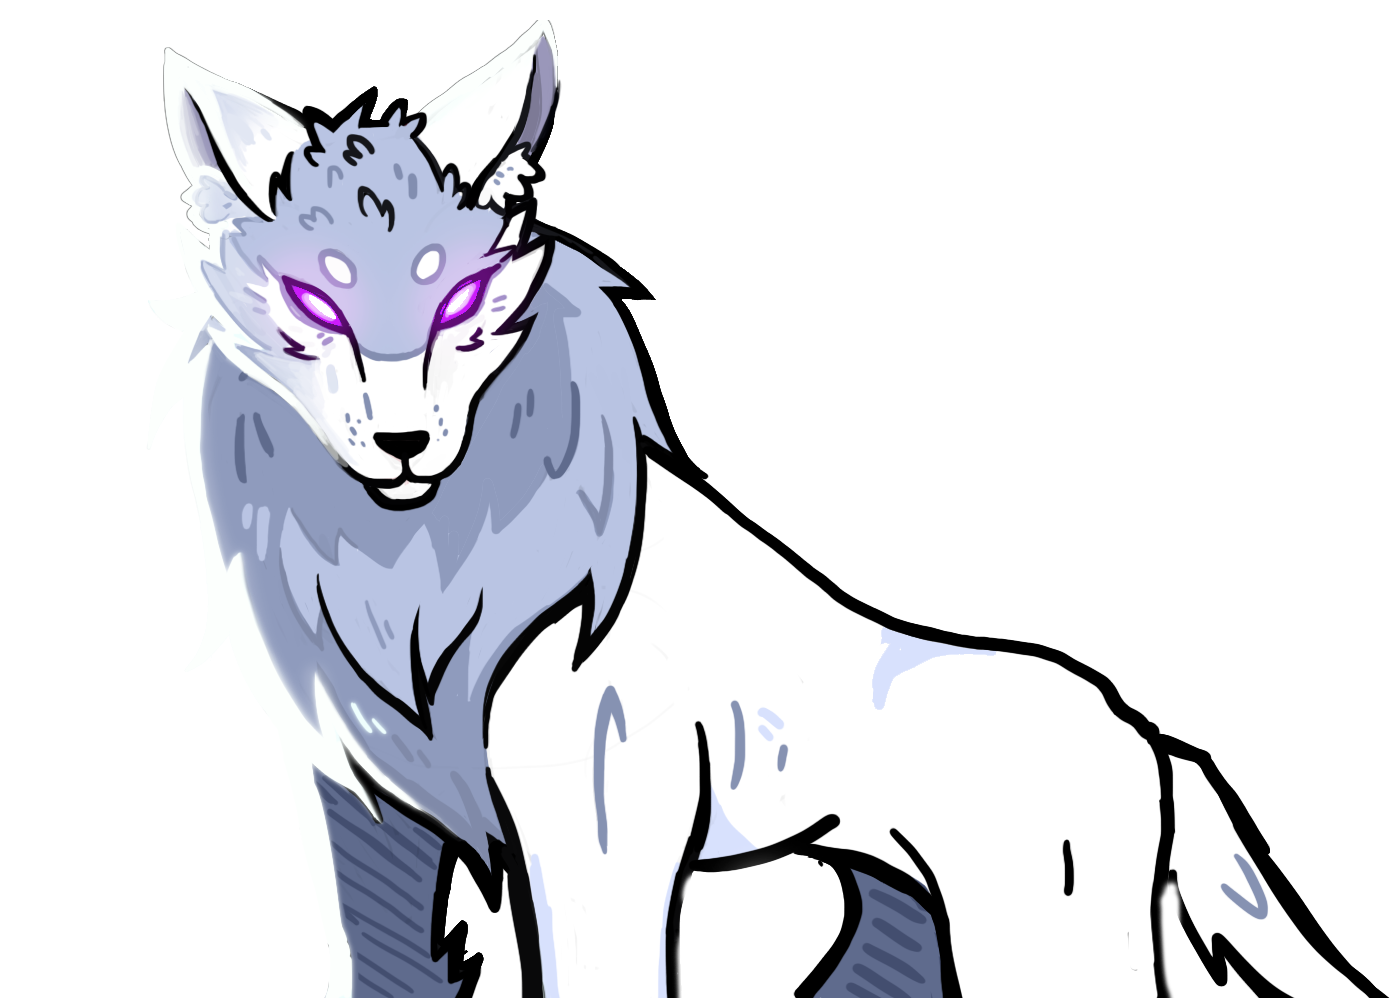
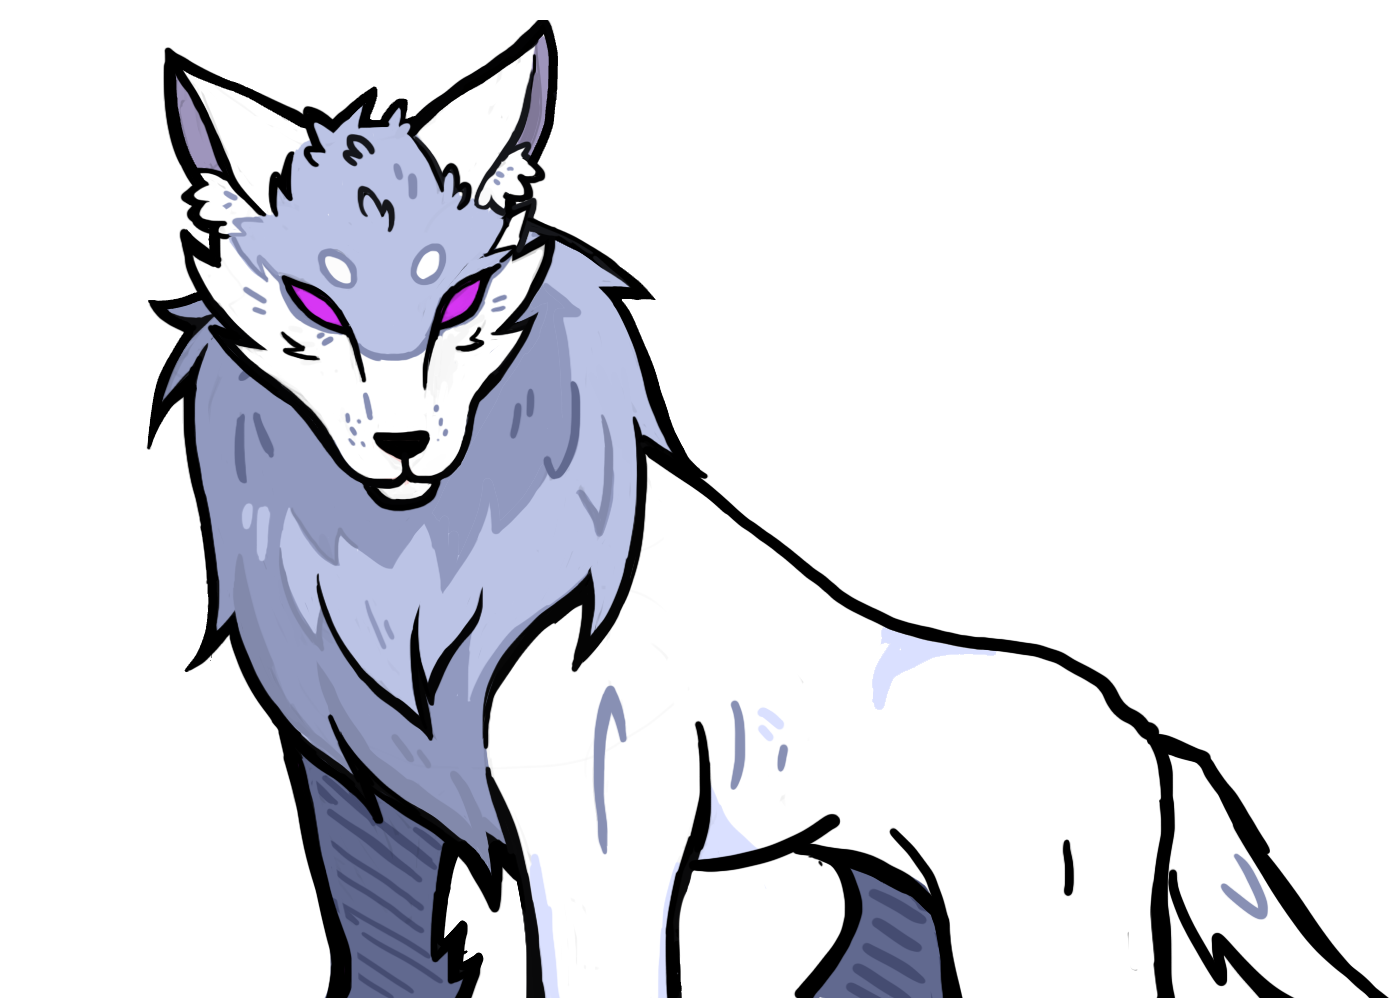
00

diff --git a/roja/es/visualnovel_script_es.js b/roja/es/visualnovel_script_es.js
@@ -81,17 +81,17 @@ function next() {
       break;
       case 7:
 
-          newPersonaje = `<div class='personaje' style='--h: ${dynamicHeight}px' ><img    src="../img/lobo_1.png"  class="animate__animated animate__fadeInRight"  style="height: 100%;width: auto;"></div>`; 
+          newPersonaje = `<div class='personaje' style='--h: ${dynamicHeight}px' ><img    src="../img/lobo_3.png"  class="animate__animated animate__fadeInRight"  style="height: 100%;width: auto;"></div>`; 
           nombre="- lobo -";
-          dialogo = "ooohhhh pero claro que traes algo de mi gusto, puedo oler hogazas de pan, puedo oler algunas manzanas y puedo oler...";
+          dialogo = "ooohhhh pero claro que traes algo de mi gusto.";
           personajes.innerHTML=newPersonaje;
           
           i++;
       break;
       case 8:
-        newPersonaje = `<div class='personaje' style='--h: ${dynamicHeight}px; animation: none' ><img    src="../img/lobo_1.png" style="height: 100%;width: auto;"></div>`; 
+        newPersonaje = `<div class='personaje' style='--h: ${dynamicHeight}px; animation: none' ><img    src="../img/lobo_2.png" style="height: 100%;width: auto;"></div>`; 
         nombre="- lobo -";  
-        dialogo = "un cadaver";
+        dialogo = " puedo oler hogazas de pan, puedo oler algunas manzanas y puedo oler...";
         // personajes.insertAdjacentHTML("beforeend", newPersonaje);
         personajes.innerHTML=newPersonaje;
         document.getElementById("button").style.display= 'none';

diff --git a/roja/js/precarga.js b/roja/js/precarga.js
@@ -7,6 +7,8 @@ var imagenes_a_cargar = [
   "red_1.png",
   "red_2.png",
   "lobo_1.png",
+  "lobo_2.png",
+  "lobo_3.png",
   "fondo_1.png",
   "fondo_2.png",
   "fondo_superior_1.png",
